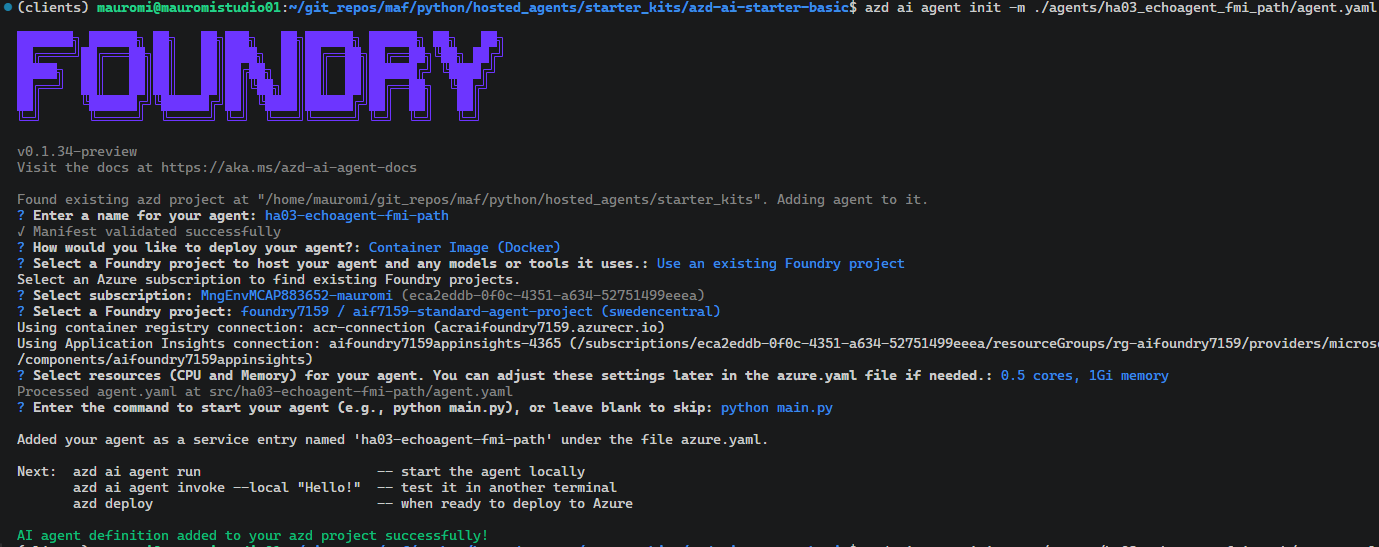
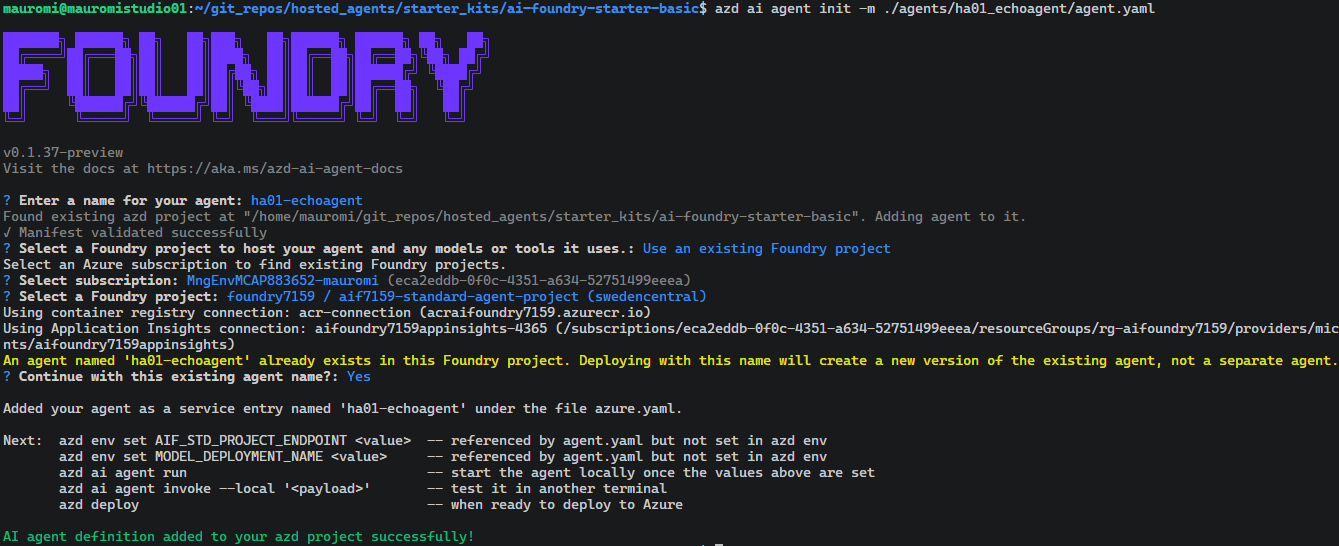
readme_fixed

diff --git a/starter_kits/ai-foundry-starter-basic/src/ha01-echoagent/main.py b/starter_kits/ai-foundry-starter-basic/src/ha01-echoagent/main.py
@@ -1,0 +1,151 @@
+import os
+import logging
+from dotenv import load_dotenv
+load_dotenv()  # MUST be first: env vars must be set before any import reads them
+
+# --- Azure Monitor setup ---------------------------------------------------
+# We call configure_azure_monitor() OURSELVES first (with default INFO+ logging)
+# because agent_framework also calls it internally during import — but at WARNING level,
+# which would prevent our logger.info() traces from reaching App Insights.
+# The double call causes OTel to emit two harmless startup warnings:
+#   "Overriding of current LoggerProvider is not allowed"
+#   "Overriding of current TracerProvider is not allowed"
+# These are cosmetic only: they fire once at startup, do not affect runtime behaviour,
+# and are not worth working around with extra complexity.
+if os.environ.get("APPLICATIONINSIGHTS_CONNECTION_STRING"):
+    from azure.monitor.opentelemetry import configure_azure_monitor
+    configure_azure_monitor(logging_level=logging.INFO)  # capture INFO+ in App Insights (default is WARNING)
+
+from typing import Any, AsyncGenerator
+
+from agent_framework import (
+    AgentResponse,
+    AgentResponseUpdate,
+    AgentSession,
+    BaseAgent,
+    Content,
+    Message,
+    ResponseStream,
+    Role,
+    normalize_messages,
+)
+from azure.ai.agentserver.agentframework import from_agent_framework
+# --------------------------------------------------------------------------
+
+# Configure logging - WARNING for everything else, while INFO for this module only
+logging.basicConfig(level=logging.WARNING) # this is the "father" logger, set to WARNING to avoid too much noise from other modules
+logger = logging.getLogger(__name__) # this is the "child" logger for our module (this module)
+logger.setLevel(logging.INFO) # we set the child logger to INFO to get more detailed logs from our module
+if not logger.handlers: # avoid adding multiple handlers if this code is reloaded multiple times (e.g. during development)
+    _handler = logging.StreamHandler()
+    _handler.setLevel(logging.INFO)
+    logger.addHandler(_handler)
+    logger.propagate = True # (default) so logs also reach the root logger
+
+# --------------------------------------------------------------------------
+
+if os.environ.get("APPLICATIONINSIGHTS_CONNECTION_STRING"):
+    logger.info("Azure Monitor is active.")
+else:
+    logger.info("Azure Monitor is not configured. No connection string found in environment variables.")
+
+class EchoAgent(BaseAgent):
+    """A simple custom agent that echoes user messages with a prefix.
+
+    This demonstrates how to create a fully custom agent by extending BaseAgent
+    and implementing the required run() method.
+    """
+
+    def __init__(
+        self,
+        *,
+        name: str | None = None,
+        description: str | None = None,
+        custom_member: str = "Echo: ",
+        **kwargs: Any,
+    ) -> None:
+        """Initialize the EchoAgent.
+
+        Args:
+            name: The name of the agent.
+            description: The description of the agent.
+            custom_member: A custom member variable for the agent.
+            **kwargs: Additional keyword arguments passed to BaseAgent.
+        """
+        self.echo_prefix = custom_member
+        super().__init__(
+            name=name,
+            description=description,
+            **kwargs,
+        )
+
+    def run(
+        self,
+        messages: str | Message | list[str] | list[Message] | None = None,
+        *,
+        stream: bool = False,
+        session: AgentSession | None = None,
+        **kwargs: Any,
+    ) -> AgentResponse | AsyncGenerator[AgentResponseUpdate, None]:
+        """Execute the agent and return a complete response or a streaming generator.
+
+        Args:
+            messages: The message(s) to process.
+            stream: If True, return an async generator of AgentResponseUpdate. If False, return AgentResponse.
+            session: The conversation session (optional).
+            **kwargs: Additional keyword arguments.
+
+        Returns:
+            When stream=False: An AgentResponse containing the agent's reply.
+            When stream=True: An async generator yielding AgentResponseUpdate chunks.
+        """
+        normalized = normalize_messages(messages)
+
+        # this is written to stderr, which is visible in the agent logs in Foundry - useful for debugging
+        logger.info("run() called: stream=%s, messages=%d", stream, len(normalized) if normalized else 0)
+
+        if not normalized:
+            response_text = "Hello! I'm a custom echo agent. Send me a message and I'll echo it back."
+        else:
+            last_message = normalized[-1]
+            if last_message.text:
+                logger.info("[INPUT] %s", last_message.text)
+                response_text = f"{self.echo_prefix}{last_message.text}"
+            else:
+                response_text = f"{self.echo_prefix}[Non-text message received]"
+
+        logger.info("[OUTPUT] %s", response_text)
+
+        # --- NON-STREAMING MODE ------------------------------------------------
+        if not stream:
+            async def _respond():
+                ai = AgentResponse(messages=[Message(role="assistant", text=response_text)])
+                return ai
+            return _respond()
+
+        # --- STREAMING MODE ----------------------------------------------------
+        elif stream:
+            async def generator():
+                words = response_text.split()
+                for i, word in enumerate(words):
+                    chunk_text = f" {word}" if i > 0 else word
+                    yield AgentResponseUpdate(
+                        contents=[Content(type="text", text=chunk_text)],
+                        role="assistant",
+                    )
+
+            # Return a valid async generator for streaming mode
+            return ResponseStream(generator(), finalizer=AgentResponse.from_updates) # return generator()
+            
+
+def create_agent() -> EchoAgent:
+    agent = EchoAgent(
+        name="mauromi_agent_echo",
+        description="A simple agent that echoes user messages",
+        custom_member="🔊 Echo: ",
+    )
+    return agent
+
+if __name__ == "__main__":
+    MyEchoAgent = create_agent()
+    from_agent_framework(MyEchoAgent).run()

diff --git a/starter_kits/README.md b/starter_kits/README.md
@@ -52,7 +52,6 @@ For example we may create the "agents" folder in the starter kit root, then a su
 ## Create/review the manifest (file `agent.yaml`)
 ```yaml
 # Unique identifier/name for this agent
-# Unique identifier/name for this agent
 name: ha01-echoagent
 
 # Brief description of what this agent does
@@ -86,7 +85,7 @@ template:
 `azd auth login`
 
 ## Complete the configuration in the local repo
-Run `azd ai agent init -m ./agents/ha03_echoagent_fmi_path/agent.yaml`<br/>
+Run `azd ai agent init -m ./agents/ha01_echoagent/agent.yaml`<br/>
 ![alt text](./_README_IMAGES/image-3.png)
 
 ## Check the updated `azure.yaml` ***manifest***
@@ -121,13 +120,12 @@ infra:
 ![alt text](./_README_IMAGES/image-4.png)
 
 ## Deploy the image into ACR and the agent into Foundry Project
-`azd deploy ha03-echoagent-fmi-path`<br/>
+`azd deploy ha01-echoagent`<br/>
 ![alt text](./_README_IMAGES/image-5.png)
 
 
 ### As a result, in the ACR we get
 ![alt text](./_README_IMAGES/image-6.png)
-![alt text](image.png)
 
 ## Let's test it in the Azure portal (with 0% `AI Quality`)
 ![alt text](./_README_IMAGES/image-7.png)
